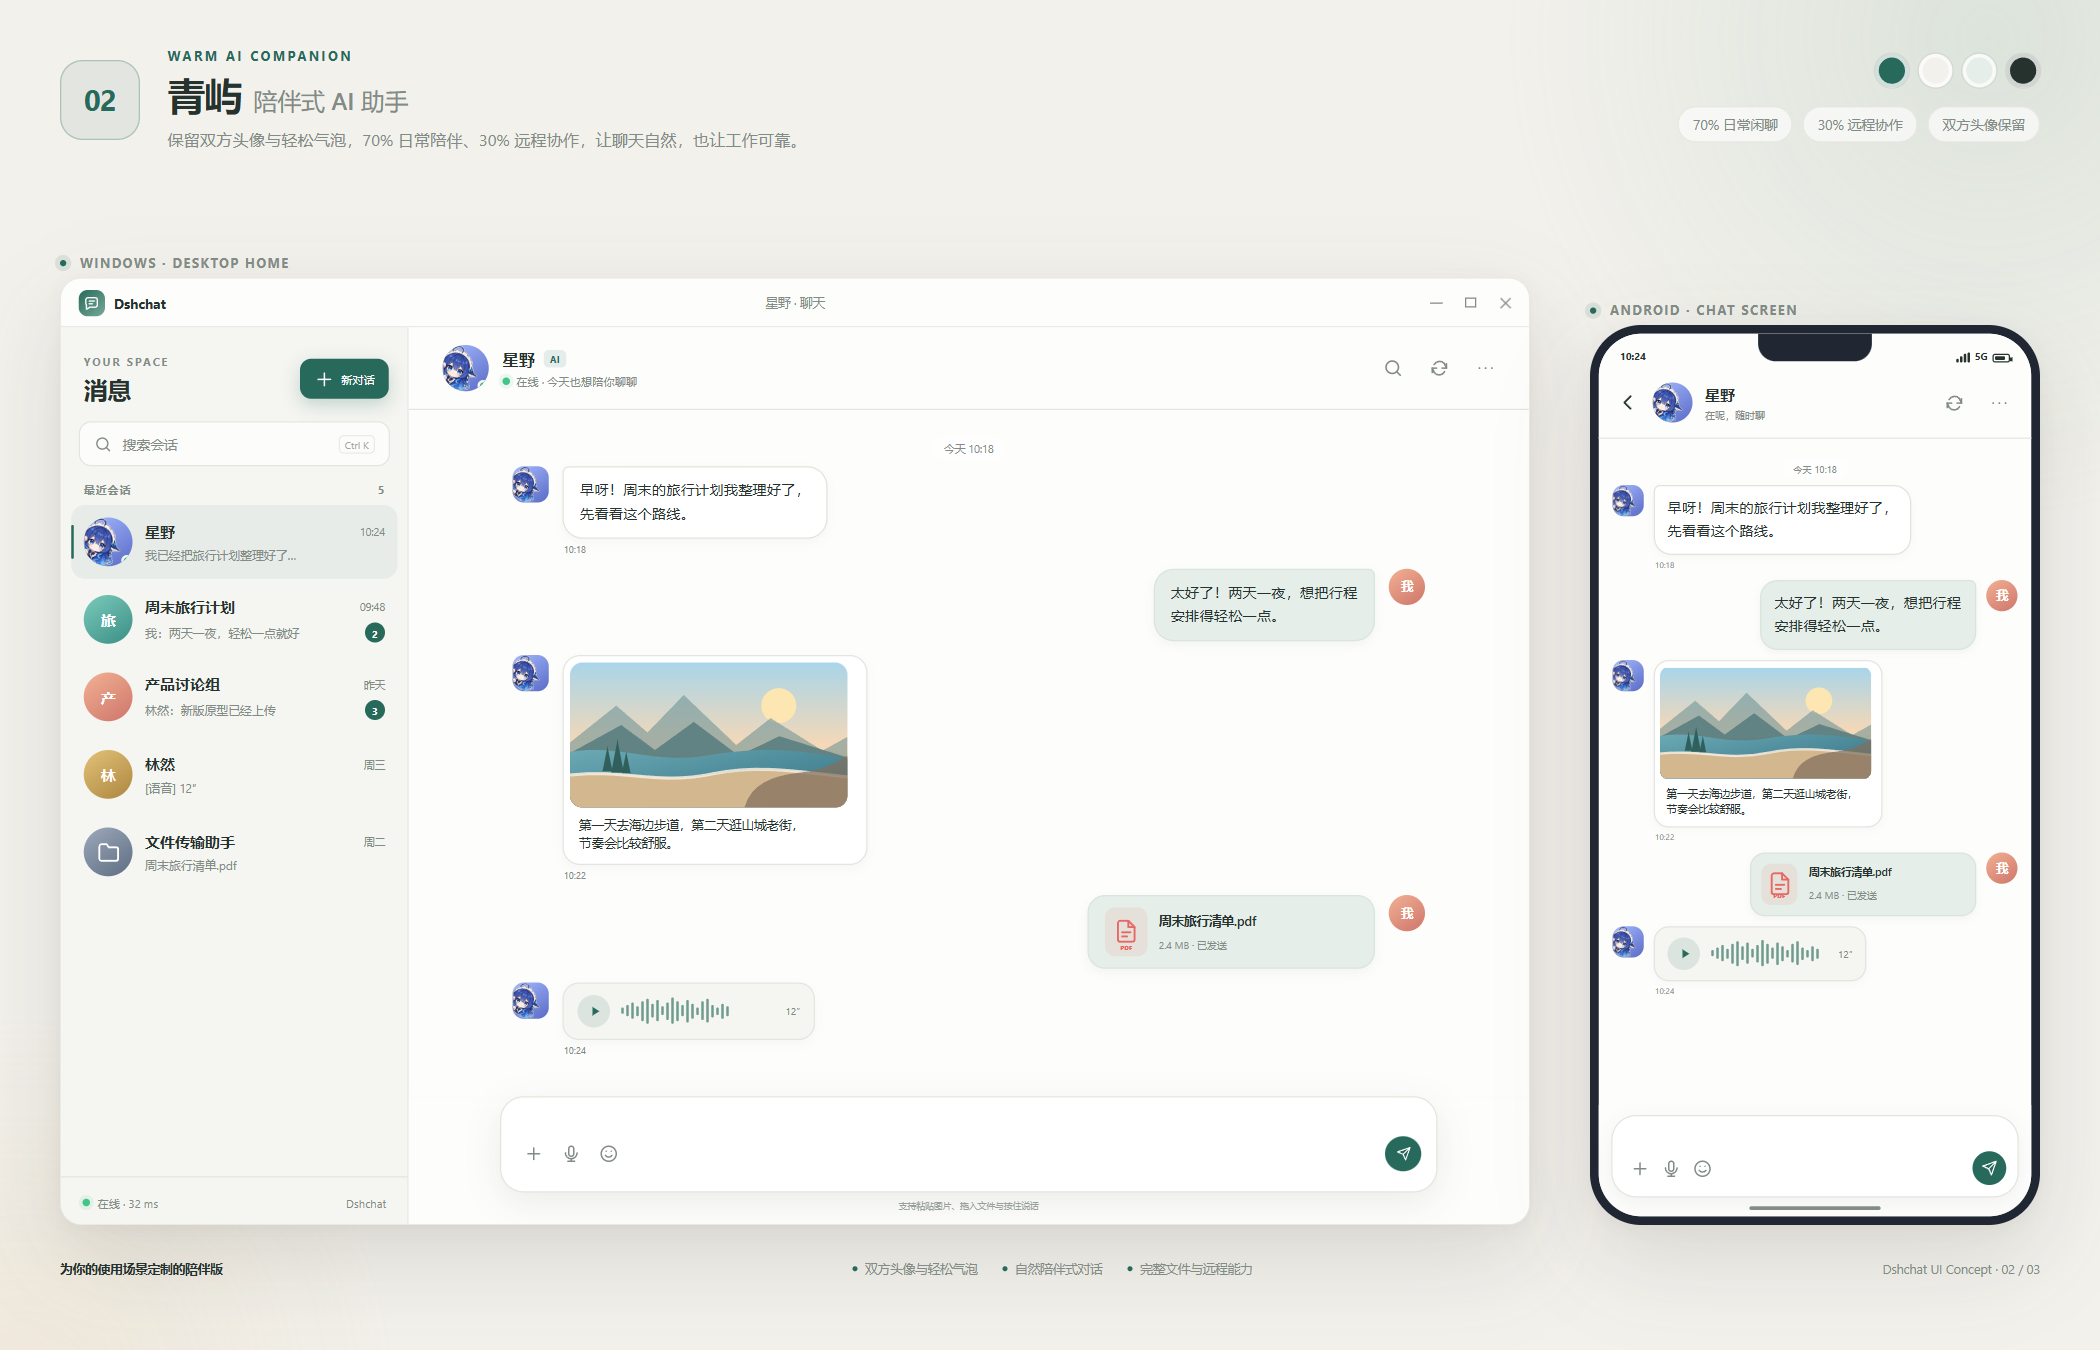
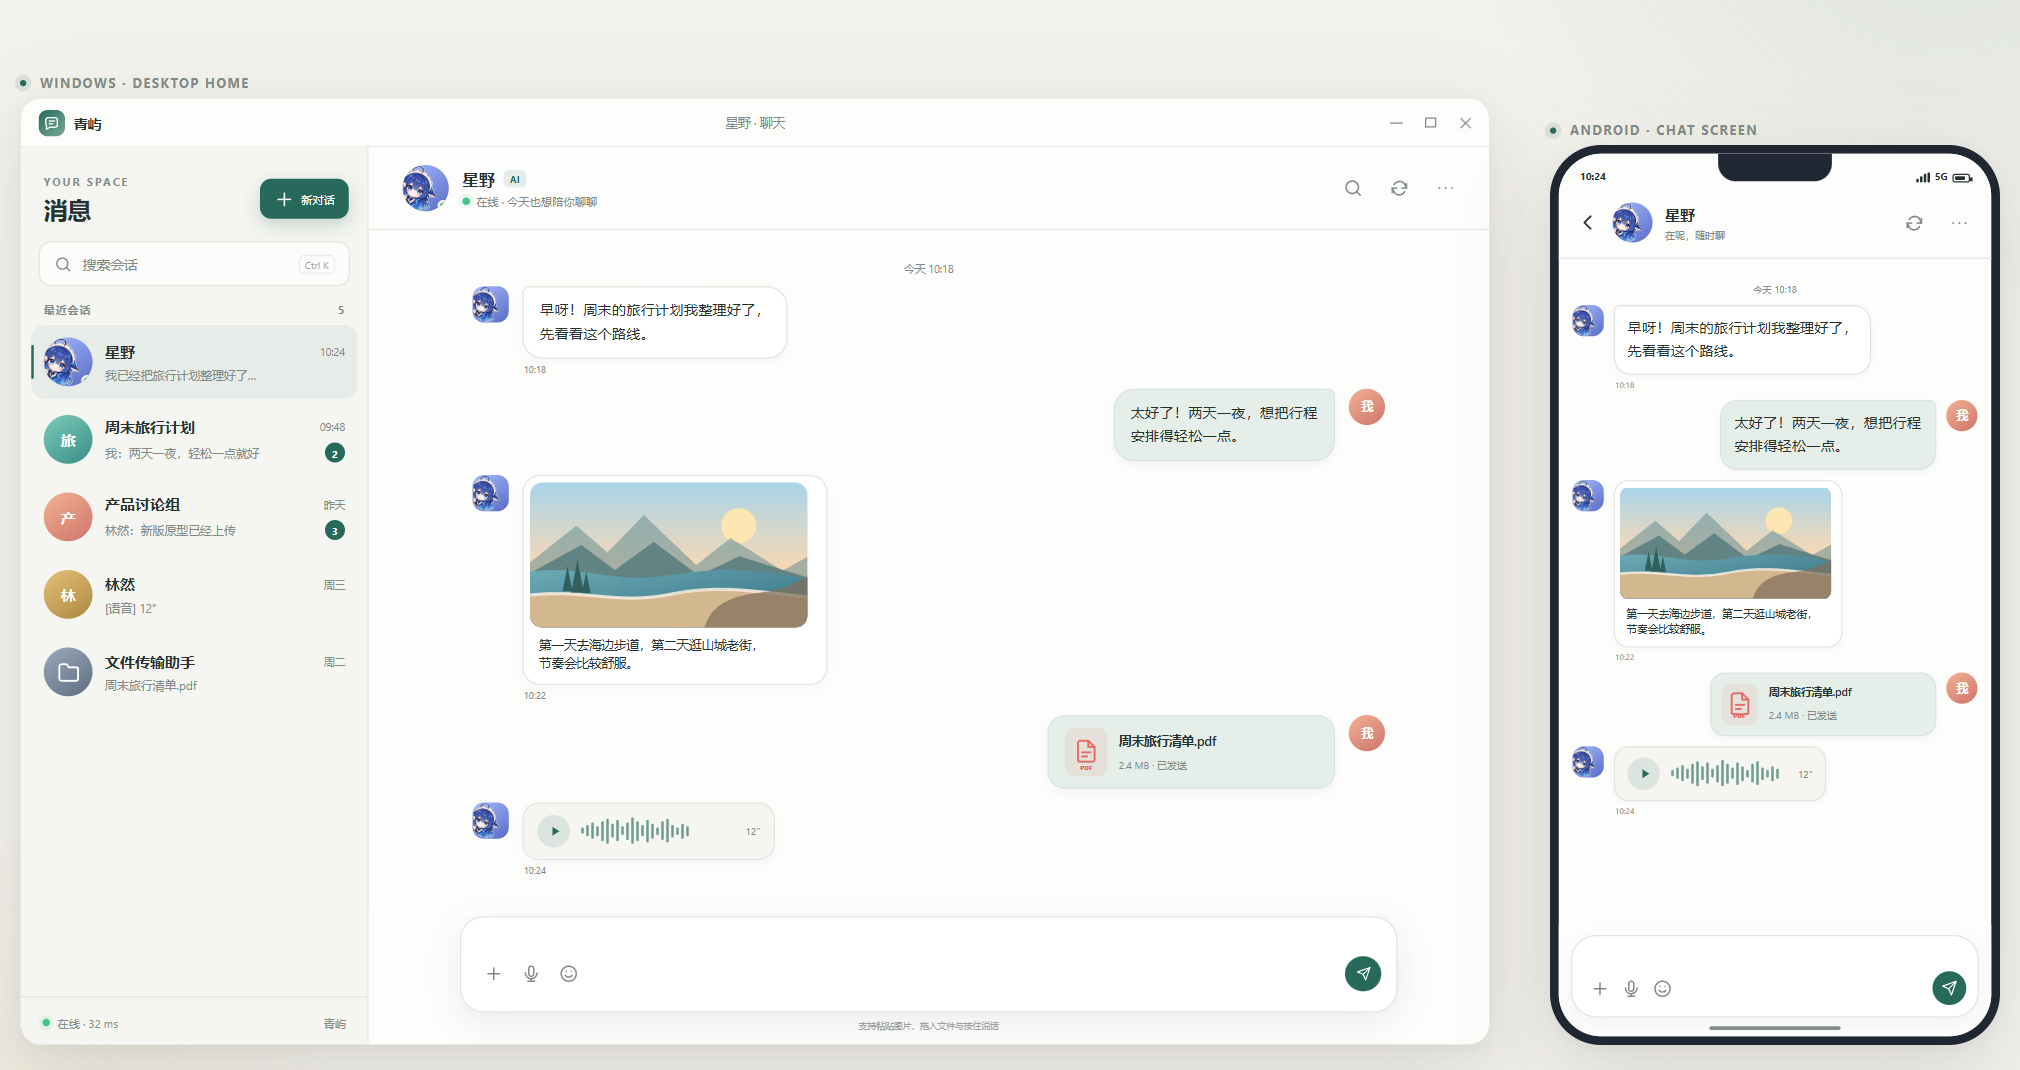
brand: 应用显示名统一为青屿，README 预览移除设计编号

diff --git a/lib/src/screens/settings_screen.dart b/lib/src/screens/settings_screen.dart
@@ -183,7 +183,7 @@ class _SettingsScreenState extends State<SettingsScreen> {
               const Padding(
                 padding: EdgeInsets.fromLTRB(20, 8, 20, 14),
                 child: Text(
-                  'Dshchat for Windows · v0.3.0',
+                  '青屿 for Windows · v0.3.0',
                   style: TextStyle(fontSize: 8, color: AppTheme.muted),
                 ),
               ),
@@ -291,7 +291,7 @@ class _SettingsScreenState extends State<SettingsScreen> {
                       crossAxisAlignment: CrossAxisAlignment.start,
                       children: [
                         const Text(
-                          'Dshchat',
+                          '青屿',
                           style: TextStyle(
                             fontSize: 15,
                             fontWeight: FontWeight.w700,

diff --git a/lib/main.dart b/lib/main.dart
@@ -25,7 +25,7 @@ Future<void> main() async {
       size: Size(980, 660),
       minimumSize: Size(780, 560),
       center: true,
-      title: 'Dshchat',
+      title: '青屿',
       titleBarStyle: TitleBarStyle.normal,
     );
     await windowManager.waitUntilReadyToShow(options, () async {
@@ -46,7 +46,7 @@ class ChatApp extends StatelessWidget {
   @override
   Widget build(BuildContext context) {
     return MaterialApp(
-      title: '聊天',
+      title: '青屿',
       debugShowCheckedModeBanner: false,
       theme: AppTheme.light(),
       home: const _Boot(),

diff --git a/lib/src/screens/version_screen.dart b/lib/src/screens/version_screen.dart
@@ -281,7 +281,7 @@ class _VersionScreenState extends State<VersionScreen> {
                               crossAxisAlignment: CrossAxisAlignment.start,
                               children: [
                                 Text(
-                                  'Dshchat',
+                                  '青屿',
                                   style: TextStyle(
                                     fontSize: 16,
                                     fontWeight: FontWeight.w700,

diff --git a/lib/src/screens/desktop_home.dart b/lib/src/screens/desktop_home.dart
@@ -432,7 +432,7 @@ class _DesktopHomeState extends State<DesktopHome> {
                 ),
                 const Spacer(),
                 const Text(
-                  'Dshchat',
+                  '青屿',
                   style: TextStyle(fontSize: 11, color: AppTheme.muted),
                 ),
               ],

diff --git a/README.md b/README.md
@@ -1,9 +1,11 @@
-# Dshchat
+# 青屿
 
 连接任意一台 DSH 的原生聊天客户端。**Flutter 一套代码，Android + Windows。**
 
 界面是 **青屿 · 陪伴版**：暖白底色、鼠尾草绿、双方头像和轻松气泡。  
 按 **70% 日常闲聊、30% 远程协作** 来设计——聊天要自然，文件、图片、语音、搜索和服务器管理也一个不少。
+
+> 仓库名仍是 `dsh-chat`，应用显示名统一为「青屿」。
 
 后端是任意一台装着 `dsh-plugin-chat` 的 DSH（手机本机引擎也行，电脑也行）。
 
@@ -28,7 +30,7 @@
 - **App 内更新**：设置 → 版本 → 下载并安装（带进度条；GitHub 直连超时自动走 DSH 隧道代理下载）
 - **真实连接状态**：显示实时延迟（定时 ping `/healthz`），断线自动重连
 - **上传上限**：默认 96MB，跟随服务端配置
-- **应用名/图标**：Dshchat
+- **应用名/图标**：青屿
 
 ## 直接下载
 

diff --git a/CHANGELOG.md b/CHANGELOG.md
@@ -11,6 +11,7 @@
 - 设置页：桌面分栏 / 手机分组，补连接测试、个人资料卡
 - 版本页按设计稿重做：应用信息、版本对比、更新说明、下载/Release 操作
 - 自定义表情包：表情面板内添加图片表情，随资料云同步；资料事件广播后另一端自动刷新，点击直接发送（需插件 v0.2.1+）
+- 应用显示名统一改为 **青屿**（Windows 标题/快捷方式、Android 桌面名、设置页与版本页）；安装器升级时清理旧 `dsh-chat` / `Dshchat` 快捷方式
 
 ## v0.4.0（2026-11-12）
 

diff --git a/plugin/README.md b/plugin/README.md
@@ -1,6 +1,6 @@
 # dsh-plugin-chat（DSH 插件）
 
-装进 DSH 的聊天后端：起一个网页聊天端 + `/api/*`，**Dshchat**（手机/桌面 App）填「地址 + 令牌」就能连。
+装进 DSH 的聊天后端：起一个网页聊天端 + `/api/*`，**青屿**（手机/桌面 App）填「地址 + 令牌」就能连。
 **自带跑 DSH 会话的 OpenAI 兼容桥**（只监听本机回环，端口可在配置里改），所以不用再单独装
 `dsh-plugin-starlit-bridge`；星伴原来连内置桥端口的用法也不受影响。
 
